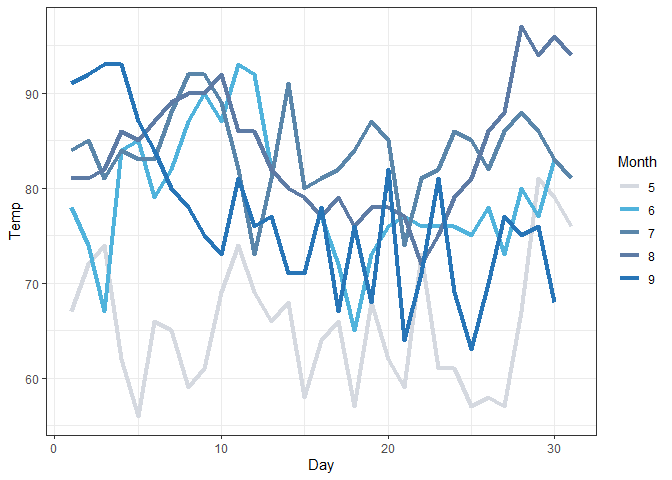
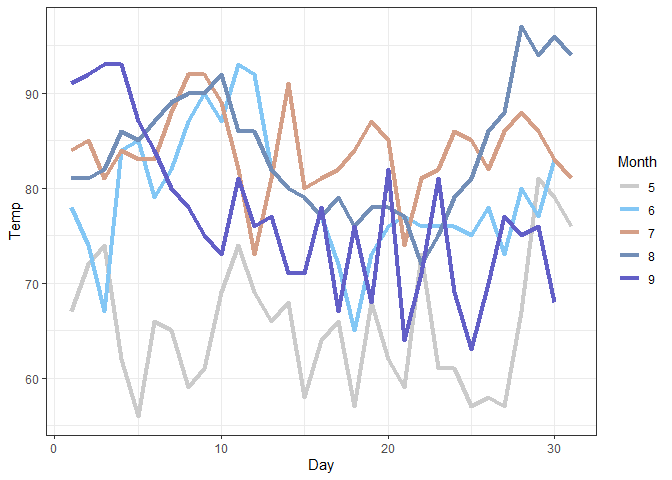
docs and readme

diff --git a/README.md b/README.md
@@ -88,15 +88,6 @@ rock_palette("gogo")
 ![](man/figures/README-unnamed-chunk-6-1.png)<!-- -->
 
 ``` r
-m <- outer(1:20,1:20,function(x,y) sin(sqrt(x*y)/3))
-cols <- rock_palette("gogo")
-Lab.palette <- colorRampPalette(cols,space = "Lab")
-filled.contour(m, col = Lab.palette(20))
-```
-
-![](man/figures/README-unnamed-chunk-6-2.png)<!-- -->
-
-``` r
 rock_palette("gunsnroses")
 ```
 
@@ -280,7 +271,7 @@ airquality %>%
     mutate(Month = as.factor(Month)) %>% 
     ggplot(aes(x = Day, y = Temp, group = Month, color = Month)) +
     geom_line(size = 1.5) +
-    scale_color_maiden() +
+    scale_color_janelle() +
     theme_bw()
 ```
 
@@ -291,7 +282,7 @@ airquality %>%
     mutate(Month = as.factor(Month)) %>% 
     ggplot(aes(x = Day, y = Temp, group = Month, color = Month)) +
     geom_line(size = 1.5) +
-    scale_color_metallica() +
+    scale_color_maiden() +
     theme_bw()
 ```
 
@@ -302,7 +293,7 @@ airquality %>%
     mutate(Month = as.factor(Month)) %>% 
     ggplot(aes(x = Day, y = Temp, group = Month, color = Month)) +
     geom_line(size = 1.5) +
-    scale_color_miles() +
+    scale_color_metallica() +
     theme_bw()
 ```
 
@@ -313,7 +304,7 @@ airquality %>%
     mutate(Month = as.factor(Month)) %>% 
     ggplot(aes(x = Day, y = Temp, group = Month, color = Month)) +
     geom_line(size = 1.5) +
-    scale_color_nevermind() +
+    scale_color_miles() +
     theme_bw()
 ```
 
@@ -324,7 +315,7 @@ airquality %>%
     mutate(Month = as.factor(Month)) %>% 
     ggplot(aes(x = Day, y = Temp, group = Month, color = Month)) +
     geom_line(size = 1.5) +
-    scale_color_oasis() +
+    scale_color_nevermind() +
     theme_bw()
 ```
 
@@ -335,7 +326,7 @@ airquality %>%
     mutate(Month = as.factor(Month)) %>% 
     ggplot(aes(x = Day, y = Temp, group = Month, color = Month)) +
     geom_line(size = 1.5) +
-    scale_color_real_thing() +
+    scale_color_oasis() +
     theme_bw()
 ```
 
@@ -346,7 +337,7 @@ airquality %>%
     mutate(Month = as.factor(Month)) %>% 
     ggplot(aes(x = Day, y = Temp, group = Month, color = Month)) +
     geom_line(size = 1.5) +
-    scale_color_taylor() +
+    scale_color_real_thing() +
     theme_bw()
 ```
 
@@ -357,11 +348,22 @@ airquality %>%
     mutate(Month = as.factor(Month)) %>% 
     ggplot(aes(x = Day, y = Temp, group = Month, color = Month)) +
     geom_line(size = 1.5) +
-    scale_color_tencc() +
+    scale_color_taylor() +
     theme_bw()
 ```
 
 ![](man/figures/README-unnamed-chunk-36-1.png)<!-- -->
+
+``` r
+airquality %>% 
+    mutate(Month = as.factor(Month)) %>% 
+    ggplot(aes(x = Day, y = Temp, group = Month, color = Month)) +
+    geom_line(size = 1.5) +
+    scale_color_tencc() +
+    theme_bw()
+```
+
+![](man/figures/README-unnamed-chunk-37-1.png)<!-- -->
 
 ``` r
 data <- gapminder::gapminder %>% 
@@ -375,7 +377,7 @@ ggplot(data = data, aes(x = year, y = gdpPercap, fill = country)) +
     scale_fill_taylor()
 ```
 
-![](man/figures/README-unnamed-chunk-37-1.png)<!-- -->
+![](man/figures/README-unnamed-chunk-38-1.png)<!-- -->
 
 ``` r
     
@@ -386,7 +388,7 @@ ggplot(data = data, aes(x = year, y = gdpPercap, fill = country)) +
     scale_fill_tencc()
 ```
 
-![](man/figures/README-unnamed-chunk-37-2.png)<!-- -->
+![](man/figures/README-unnamed-chunk-38-2.png)<!-- -->
 
 ``` r
     
@@ -397,9 +399,22 @@ ggplot(data = data, aes(x = year, y = gdpPercap, fill = country)) +
     scale_fill_husker()
 ```
 
-![](man/figures/README-unnamed-chunk-37-3.png)<!-- -->
+![](man/figures/README-unnamed-chunk-38-3.png)<!-- -->
 
 ``` r
+    
+    
+    ggplot(data = data, aes(x = year, y = gdpPercap, fill = country)) +
+    geom_area(alpha = 0.8) +
+    scale_x_date(breaks = data$year, date_labels = "%Y") +
+    scale_y_continuous(expand = c(0, 0), labels = scales::dollar) +
+    scale_fill_janelle()
+```
+
+![](man/figures/README-unnamed-chunk-38-4.png)<!-- -->
+
+``` r
+    
     
     ggplot(data = data, aes(x = year, y = gdpPercap, fill = country)) +
     geom_area(alpha = 0.8) +
@@ -408,7 +423,7 @@ ggplot(data = data, aes(x = year, y = gdpPercap, fill = country)) +
     scale_fill_californication()
 ```
 
-![](man/figures/README-unnamed-chunk-37-4.png)<!-- -->
+![](man/figures/README-unnamed-chunk-38-5.png)<!-- -->
 
 ``` r
     
@@ -419,4 +434,4 @@ ggplot(data = data, aes(x = year, y = gdpPercap, fill = country)) +
     scale_fill_miles()
 ```
 
-![](man/figures/README-unnamed-chunk-37-5.png)<!-- -->
+![](man/figures/README-unnamed-chunk-38-6.png)<!-- -->
